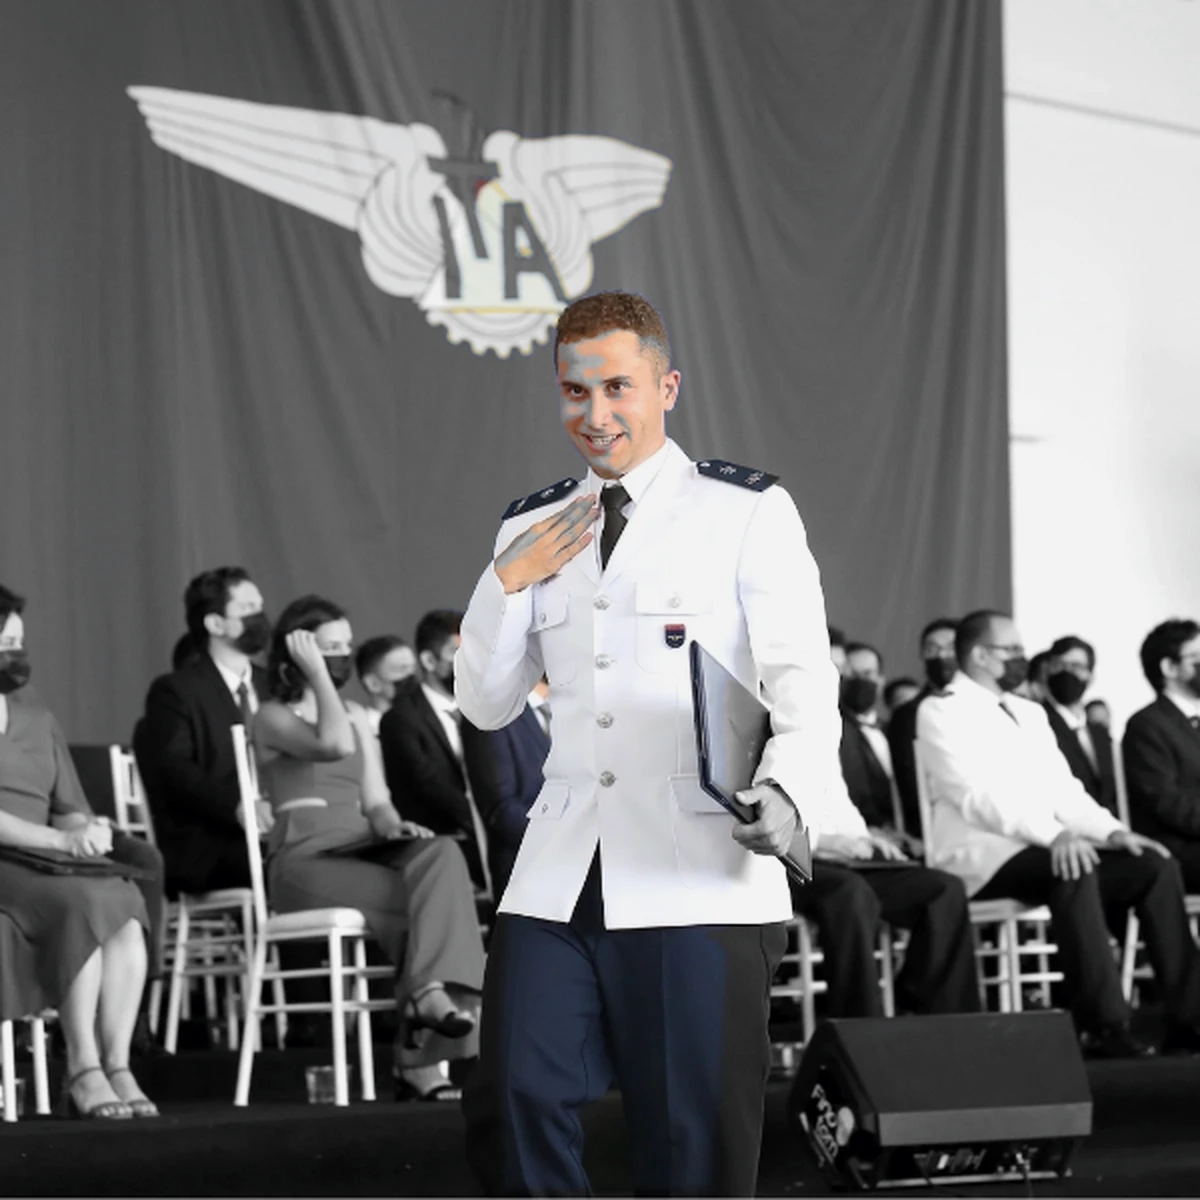
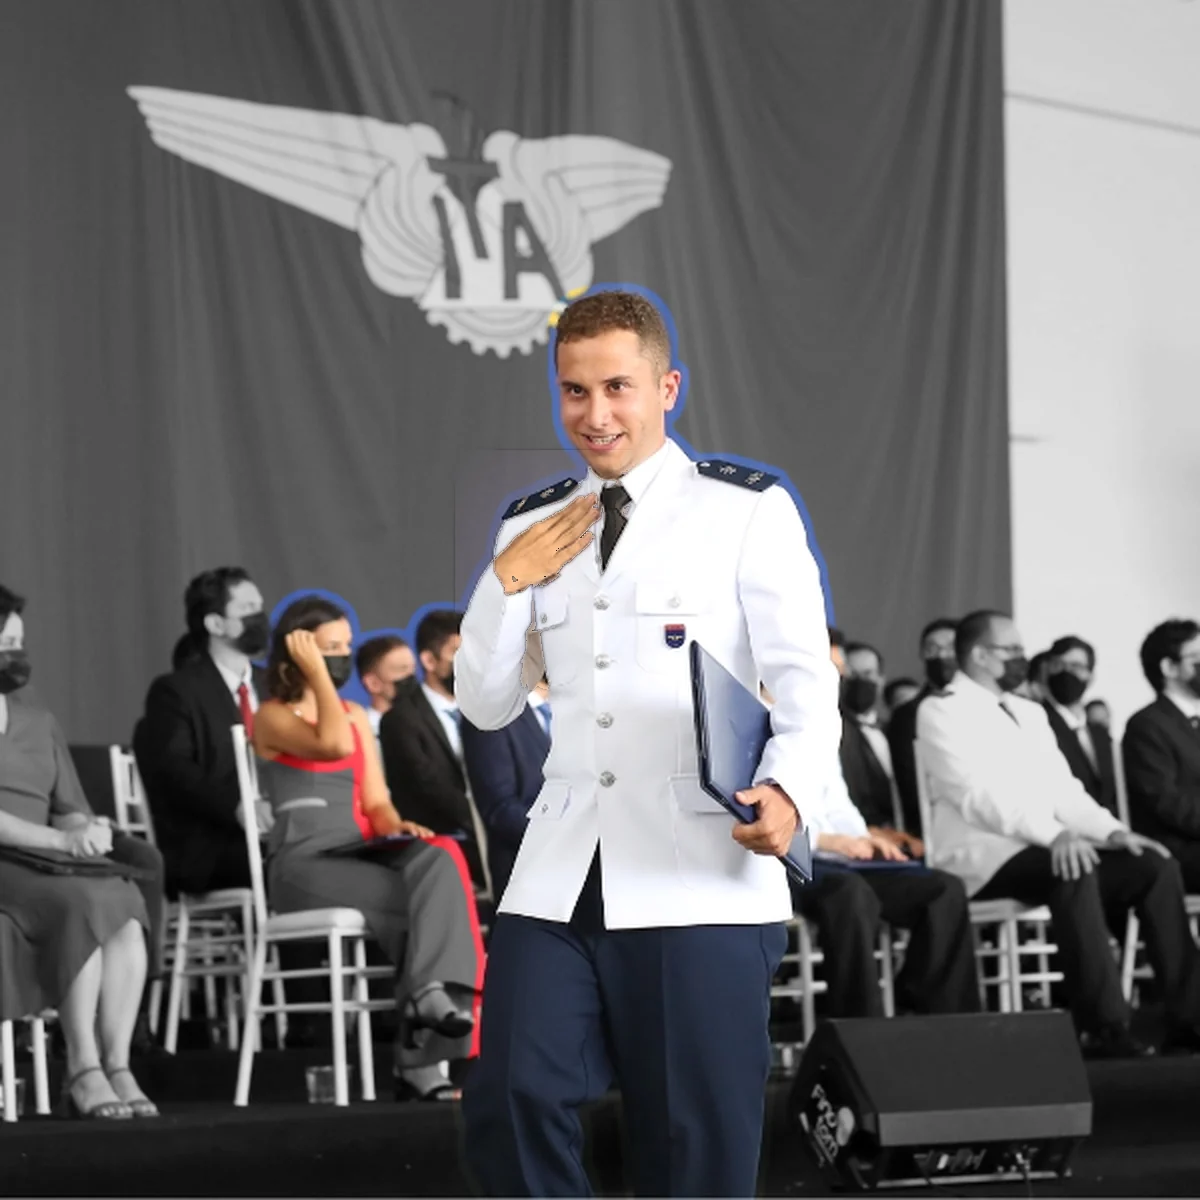
Troca a seta por um roadmap e recorta a foto da formatura.
Só o Daniel fica em cor; a jornada vira trilho até Auditor Fiscal no Paraná.

diff --git a/assets/css/main.css b/assets/css/main.css
@@ -341,12 +341,12 @@ h3 { font-size: 1.1rem; color: var(--gold-ink); }
   filter: grayscale(0.3) sepia(0.12) contrast(1) brightness(0.92);
 }
 .inst-row-hero { margin-top: 1.45rem; }
-.arrow-mark {
+.rm-mark {
   display: block;
   height: 24px;
   width: auto;
   max-width: 52px;
-  margin: 0 0 0.42rem;
+  margin: 0;
   object-fit: contain;
   opacity: 0.6;
   filter: grayscale(1) sepia(0.35) contrast(0.95) brightness(0.72);
@@ -435,36 +435,62 @@ button:focus-visible,
 .grid-2-rev { grid-template-columns: 0.95fr 1.05fr; }
 .photo-wide { aspect-ratio: 16/10; }
 
-.arrow-path {
+/* Roadmap: trilho horizontal com marcos numerados; vira vertical no stack/mobile. */
+.roadmap {
   list-style: none;
-  display: flex;
-  align-items: stretch;
+  display: grid;
+  grid-auto-flow: column;
+  grid-auto-columns: 1fr;
   padding: 0;
-  margin: 0;
-  gap: 0.35rem;
+  margin: 2.2rem 0 0;
 }
-.arrow-path li {
-  flex: 1;
+.roadmap li {
+  position: relative;
   display: flex;
   flex-direction: column;
-  justify-content: center;
-  min-height: 7.4rem;
-  padding: 0.95rem 1.45rem 0.95rem 1.35rem;
-  background: var(--bg-2);
-  border: 1px solid var(--line);
-  clip-path: polygon(0 0, calc(100% - 16px) 0, 100% 50%, calc(100% - 16px) 100%, 0 100%, 12px 50%);
+  align-items: flex-start;
+  padding: 2.55rem 1.1rem 0 0;
 }
-.arrow-path li:first-child {
-  clip-path: polygon(0 0, calc(100% - 16px) 0, 100% 50%, calc(100% - 16px) 100%, 0 100%);
+.roadmap li::before {
+  content: "";
+  position: absolute;
+  top: 1.62rem;
+  left: 0;
+  right: 0;
+  height: 1px;
+  background: var(--line);
 }
-.arrow-name {
+.roadmap li:last-child::before { display: none; }
+.rm-node {
+  position: absolute;
+  top: 1.62rem;
+  left: 0;
+  width: 11px;
+  height: 11px;
+  border: 1px solid var(--gold);
+  border-radius: 50%;
+  background: var(--bg);
+  transform: translate(-1px, -50%);
+}
+.rm-step {
+  position: absolute;
+  top: 0;
+  left: 0;
+  font-family: var(--sans);
+  font-size: 0.58rem;
+  font-weight: 600;
+  letter-spacing: 0.18em;
+  text-transform: uppercase;
+  color: var(--gold-ink);
+}
+.rm-name {
   font-family: var(--serif);
   font-weight: 700;
   font-size: 0.92rem;
   letter-spacing: 0.05em;
   color: var(--ink);
 }
-.arrow-meta {
+.rm-meta {
   font-family: var(--sans);
   font-size: 0.58rem;
   font-weight: 500;
@@ -473,19 +499,108 @@ button:focus-visible,
   color: var(--muted);
   margin-top: 0.28rem;
 }
-.arrow-path li.arrow-dest {
-  flex: 1.45;
+/* O destino nao tem logo: o padding extra alinha o nome com os demais marcos. */
+.roadmap li.rm-dest {
+  padding-right: 0;
+  padding-top: 4.47rem;
+}
+.rm-dest .rm-node {
+  width: 15px;
+  height: 15px;
   background: var(--gold);
   border-color: var(--gold);
-  clip-path: polygon(0 0, calc(100% - 22px) 0, 100% 50%, calc(100% - 22px) 100%, 0 100%, 14px 50%);
+  box-shadow: 0 0 0 4px rgba(197, 160, 89, 0.16);
 }
-.arrow-dest .arrow-name {
+.rm-dest .rm-name {
   font-size: 1.05rem;
   letter-spacing: 0.08em;
   text-transform: uppercase;
-  color: #0a111f;
+  color: var(--gold-ink);
 }
-.arrow-dest .arrow-meta { color: #3a2a10; }
+
+.rm-badge {
+  position: relative;
+  display: inline-block;
+  margin: 0 0 0.42rem;
+  cursor: help;
+}
+.rm-badge:hover .rm-mark,
+.rm-badge:focus-visible .rm-mark {
+  opacity: 0.95;
+  filter: grayscale(0.25) sepia(0.1) contrast(1) brightness(0.9);
+}
+.rm-badge:focus-visible { outline: 1px solid var(--gold); outline-offset: 4px; }
+.rm-tip {
+  position: absolute;
+  bottom: calc(100% + 0.55rem);
+  left: 0;
+  z-index: 5;
+  width: max-content;
+  max-width: 15rem;
+  padding: 0.5rem 0.7rem;
+  background: var(--ink);
+  color: #f4f1ea;
+  font-family: var(--sans);
+  font-size: 0.62rem;
+  font-weight: 500;
+  line-height: 1.45;
+  letter-spacing: 0.04em;
+  text-transform: none;
+  box-shadow: 0 10px 24px rgba(10, 17, 31, 0.18);
+  opacity: 0;
+  visibility: hidden;
+  transform: translateY(4px);
+  transition: opacity 0.18s ease, transform 0.18s ease, visibility 0.18s;
+}
+.rm-tip::after {
+  content: "";
+  position: absolute;
+  top: 100%;
+  left: 0.7rem;
+  border: 5px solid transparent;
+  border-top-color: var(--ink);
+}
+.rm-badge:hover .rm-tip,
+.rm-badge:focus-visible .rm-tip {
+  opacity: 1;
+  visibility: visible;
+  transform: translateY(0);
+}
+
+.rm-honor {
+  display: inline-flex;
+  align-items: center;
+  gap: 0.25rem;
+  margin-top: 0.55rem;
+  color: var(--gold);
+}
+.rm-laurel { flex: none; }
+.rm-laurel-r { transform: scaleX(-1); }
+.rm-honor-text {
+  display: flex;
+  flex-direction: column;
+  align-items: center;
+  line-height: 1.15;
+}
+.rm-honor-title {
+  font-family: var(--serif);
+  font-weight: 700;
+  font-size: 0.64rem;
+  letter-spacing: 0.09em;
+  text-transform: uppercase;
+  color: var(--gold-ink);
+  white-space: nowrap;
+}
+.rm-honor-sub {
+  font-family: var(--sans);
+  font-size: 0.5rem;
+  font-weight: 600;
+  letter-spacing: 0.12em;
+  text-transform: uppercase;
+  color: var(--muted);
+  margin-top: 0.16rem;
+  white-space: nowrap;
+}
 
 .focus-grid {
   display: grid;
@@ -623,16 +738,23 @@ blockquote {
 }
 
 @media (max-width: 1040px) {
-  .arrow-path { flex-direction: column; gap: 0.3rem; }
-  .arrow-path li,
-  .arrow-path li:first-child {
-    min-height: 4.8rem;
-    padding: 1rem 1.2rem 1.5rem;
-    clip-path: polygon(0 0, 100% 0, 100% calc(100% - 14px), 50% 100%, 0 calc(100% - 14px));
+  .roadmap {
+    grid-auto-flow: row;
+    grid-auto-columns: auto;
+    gap: 1.55rem;
   }
-  .arrow-path .arrow-dest {
-    clip-path: polygon(0 0, 100% 0, 100% calc(100% - 18px), 50% 100%, 0 calc(100% - 18px));
+  .roadmap li,
+  .roadmap li.rm-dest { padding: 0 0 0 1.75rem; }
+  .roadmap li::before {
+    top: 0.5rem;
+    left: 5px;
+    right: auto;
+    width: 1px;
+    height: calc(100% + 1.55rem);
   }
+  .roadmap .rm-node { top: 0.5rem; left: 5px; transform: translate(-50%, -50%); }
+  .roadmap .rm-step { position: static; margin-bottom: 0.3rem; }
+  .roadmap .rm-mark { height: 20px; }
 }
 
 @media (max-width: 860px) {
@@ -652,32 +774,27 @@ blockquote {
   .inst-row { gap: 0.95rem 1.15rem; }
   .inst-row img { height: 28px; max-width: 58px; }
   .substack-band-inner { flex-direction: column; align-items: flex-start; }
-  .arrow-path { flex-direction: column; gap: 0.3rem; }
-  .arrow-path li,
-  .arrow-path li:first-child {
-    min-height: 4.8rem;
-    padding: 1rem 1.2rem 1.5rem;
-    clip-path: polygon(0 0, 100% 0, 100% calc(100% - 14px), 50% 100%, 0 calc(100% - 14px));
-  }
-  .arrow-dest {
-    clip-path: polygon(0 0, 100% 0, 100% calc(100% - 18px), 50% 100%, 0 calc(100% - 18px));
-  }
 }
 
-.arrow-path-stack {
-  flex-direction: column;
-  gap: 0.3rem;
+.roadmap-stack {
+  grid-auto-flow: row;
+  grid-auto-columns: auto;
+  gap: 1.55rem;
   margin: 2rem 0;
 }
-.arrow-path-stack li,
-.arrow-path-stack li:first-child {
-  min-height: 4.6rem;
-  padding: 1rem 1.2rem 1.5rem;
-  clip-path: polygon(0 0, 100% 0, 100% calc(100% - 14px), 50% 100%, 0 calc(100% - 14px));
+.roadmap-stack li,
+.roadmap-stack li.rm-dest { padding: 0 0 0 1.75rem; }
+.roadmap-stack li::before {
+  top: 0.5rem;
+  left: 5px;
+  right: auto;
+  width: 1px;
+  height: calc(100% + 1.55rem);
 }
-.arrow-path-stack li.arrow-dest {
-  clip-path: polygon(0 0, 100% 0, 100% calc(100% - 18px), 50% 100%, 0 calc(100% - 18px));
-}
+.roadmap-stack .rm-node { top: 0.5rem; left: 5px; transform: translate(-50%, -50%); }
+.roadmap-stack .rm-step { position: static; margin-bottom: 0.3rem; }
+.roadmap-stack .rm-mark { height: 20px; }
+.roadmap-stack .rm-honor { margin-top: 0.6rem; }
 
 @media (max-width: 560px) {
   .brand-text { display: none; }

diff --git a/_includes/roadmap.html b/_includes/roadmap.html
@@ -1,0 +1,70 @@
+{% comment %}
+  Roadmap da trajetoria. `stack=true` renderiza a variante vertical (pagina Sobre).
+  O tooltip abre no hover e no foco de teclado; o nome curto continua visivel sempre.
+{% endcomment %}
+<ol class="roadmap{% if include.stack %} roadmap-stack{% endif %}">
+  <li>
+    <span class="rm-node" aria-hidden="true"></span>
+    <span class="rm-step">01</span>
+    <span class="rm-badge" tabindex="0" aria-describedby="rm-tip-cefet">
+      <img class="rm-mark" src="{{ '/assets/img/inst/cefet.svg' | relative_url }}" alt="" width="28" height="28" loading="lazy">
+      <span class="rm-tip" role="tooltip" id="rm-tip-cefet">Centro Federal de Educação Tecnológica do Ceará</span>
+    </span>
+    <span class="rm-name">CEFET</span>
+    <span class="rm-meta">Primeiro degrau</span>
+  </li>
+  <li>
+    <span class="rm-node" aria-hidden="true"></span>
+    <span class="rm-step">02</span>
+    <span class="rm-badge" tabindex="0" aria-describedby="rm-tip-cmf">
+      <img class="rm-mark" src="{{ '/assets/img/inst/cmf.svg' | relative_url }}" alt="" width="23" height="28" loading="lazy">
+      <span class="rm-tip" role="tooltip" id="rm-tip-cmf">Colégio Militar de Fortaleza · Exército Brasileiro</span>
+    </span>
+    <span class="rm-name">CMF</span>
+    <span class="rm-meta">Colégio Militar</span>
+  </li>
+  <li>
+    <span class="rm-node" aria-hidden="true"></span>
+    <span class="rm-step">03</span>
+    <span class="rm-badge" tabindex="0" aria-describedby="rm-tip-ita">
+      <img class="rm-mark" src="{{ '/assets/img/inst/ita.png' | relative_url }}" alt="" width="46" height="18" loading="lazy">
+      <span class="rm-tip" role="tooltip" id="rm-tip-ita">Instituto Tecnológico de Aeronáutica · São José dos Campos</span>
+    </span>
+    <span class="rm-name">ITA</span>
+    <span class="rm-meta">Não foi milagre</span>
+    <span class="rm-honor">
+      {% include laurel.html %}
+      <span class="rm-honor-text">
+        <span class="rm-honor-title">Magna Cum Laude</span>
+        <span class="rm-honor-sub">0,3% dos formandos</span>
+      </span>
+      {% include laurel.html mirror=true %}
+    </span>
+  </li>
+  <li>
+    <span class="rm-node" aria-hidden="true"></span>
+    <span class="rm-step">04</span>
+    <span class="rm-badge" tabindex="0" aria-describedby="rm-tip-stn">
+      <img class="rm-mark" src="{{ '/assets/img/inst/tesouro.svg' | relative_url }}" alt="" width="28" height="20" loading="lazy">
+      <span class="rm-tip" role="tooltip" id="rm-tip-stn">Secretaria do Tesouro Nacional · Auditor Federal de Finanças e Controle</span>
+    </span>
+    <span class="rm-name">STN</span>
+    <span class="rm-meta">Tesouro Nacional</span>
+  </li>
+  <li>
+    <span class="rm-node" aria-hidden="true"></span>
+    <span class="rm-step">05</span>
+    <span class="rm-badge" tabindex="0" aria-describedby="rm-tip-sefaz">
+      <img class="rm-mark" src="{{ '/assets/img/inst/sefaz.svg' | relative_url }}" alt="" width="23" height="28" loading="lazy">
+      <span class="rm-tip" role="tooltip" id="rm-tip-sefaz">Secretaria da Fazenda do Paraná · Auditor Fiscal</span>
+    </span>
+    <span class="rm-name">SEFAZ-PR</span>
+    <span class="rm-meta">Paraná</span>
+  </li>
+  <li class="rm-dest">
+    <span class="rm-node" aria-hidden="true"></span>
+    <span class="rm-step">Hoje</span>
+    <span class="rm-name">Auditor Fiscal</span>
+    <span class="rm-meta">No Paraná</span>
+  </li>
+</ol>

diff --git a/_includes/laurel.html b/_includes/laurel.html
@@ -1,0 +1,11 @@
+<svg class="rm-laurel{% if include.mirror %} rm-laurel-r{% endif %}" viewBox="0 0 22 46" width="15" height="31" aria-hidden="true" focusable="false">
+  <path d="M18 44C9.5 37.5 5.5 27.5 7 17 7.9 10.6 10.6 5.2 15 1.5" fill="none" stroke="currentColor" stroke-width="1.1" stroke-linecap="round"/>
+  <g fill="currentColor">
+    <ellipse cx="12.4" cy="6.4" rx="3.5" ry="1.6" transform="rotate(-40 12.4 6.4)"/>
+    <ellipse cx="9.7" cy="12.6" rx="3.8" ry="1.7" transform="rotate(-24 9.7 12.6)"/>
+    <ellipse cx="8.5" cy="19.4" rx="3.9" ry="1.8" transform="rotate(-10 8.5 19.4)"/>
+    <ellipse cx="8.9" cy="26.4" rx="3.9" ry="1.8" transform="rotate(8 8.9 26.4)"/>
+    <ellipse cx="10.7" cy="33" rx="3.7" ry="1.7" transform="rotate(22 10.7 33)"/>
+    <ellipse cx="13.5" cy="39" rx="3.3" ry="1.6" transform="rotate(36 13.5 39)"/>
+  </g>
+</svg>

diff --git a/index.html b/index.html
@@ -41,9 +41,9 @@ permalink: /
 <section class="section section-track">
   <div class="wrap">
     <p class="kicker">Resultado</p>
-    <h2>A seta aponta para um lugar.</h2>
+    <h2>O caminho aponta para um lugar.</h2>
     <p class="section-lead">Não é narrativa de herói. É o rastro de quem competiu de novo depois de falhar.</p>
-    {% include arrow-path.html %}
+    {% include roadmap.html %}
   </div>
 </section>
 

diff --git a/sobre.md b/sobre.md
@@ -15,7 +15,7 @@ Hoje sou Auditor Fiscal no Paraná. Já fui Auditor Federal de Finanças e Contr
 
 Minha prosperidade veio após anos de provas, falhas e recomeços.
 
-{% include arrow-path.html stack=true %}
+{% include roadmap.html stack=true %}
 
 ## De onde eu venho
 
